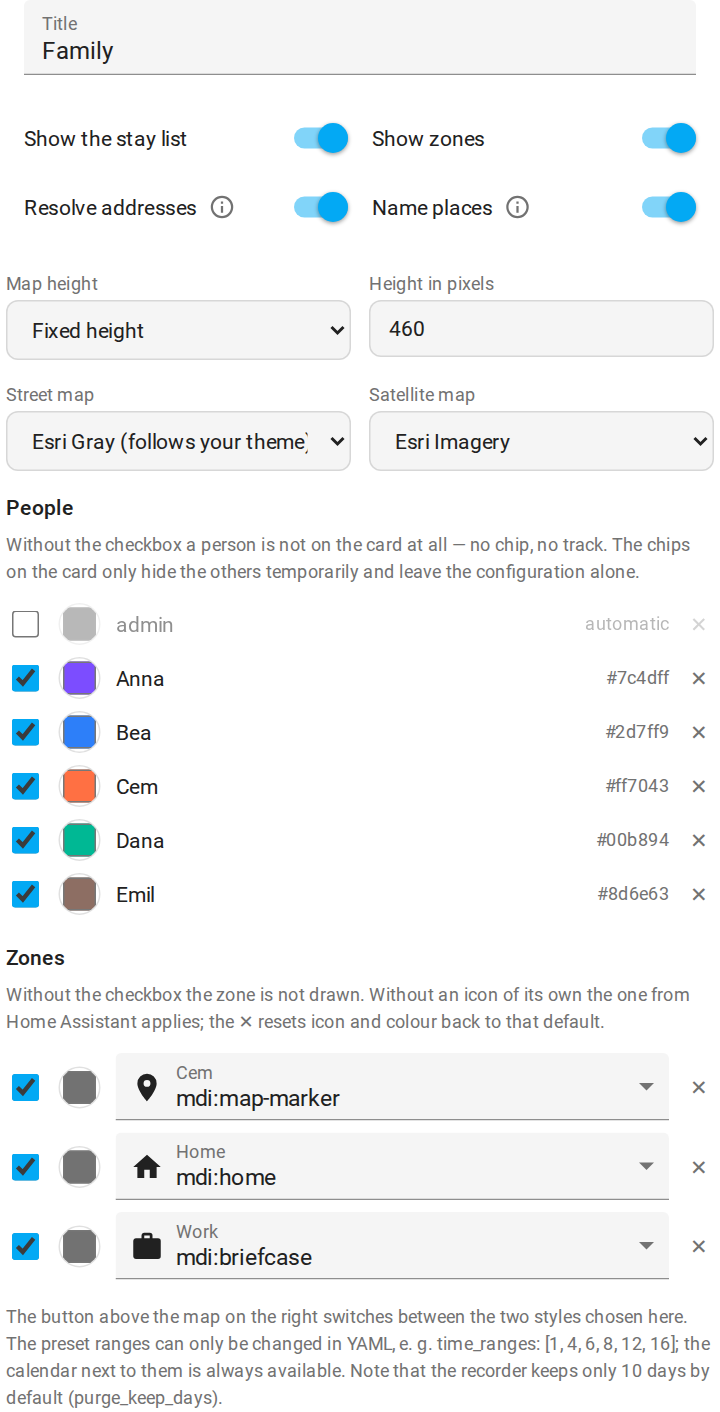
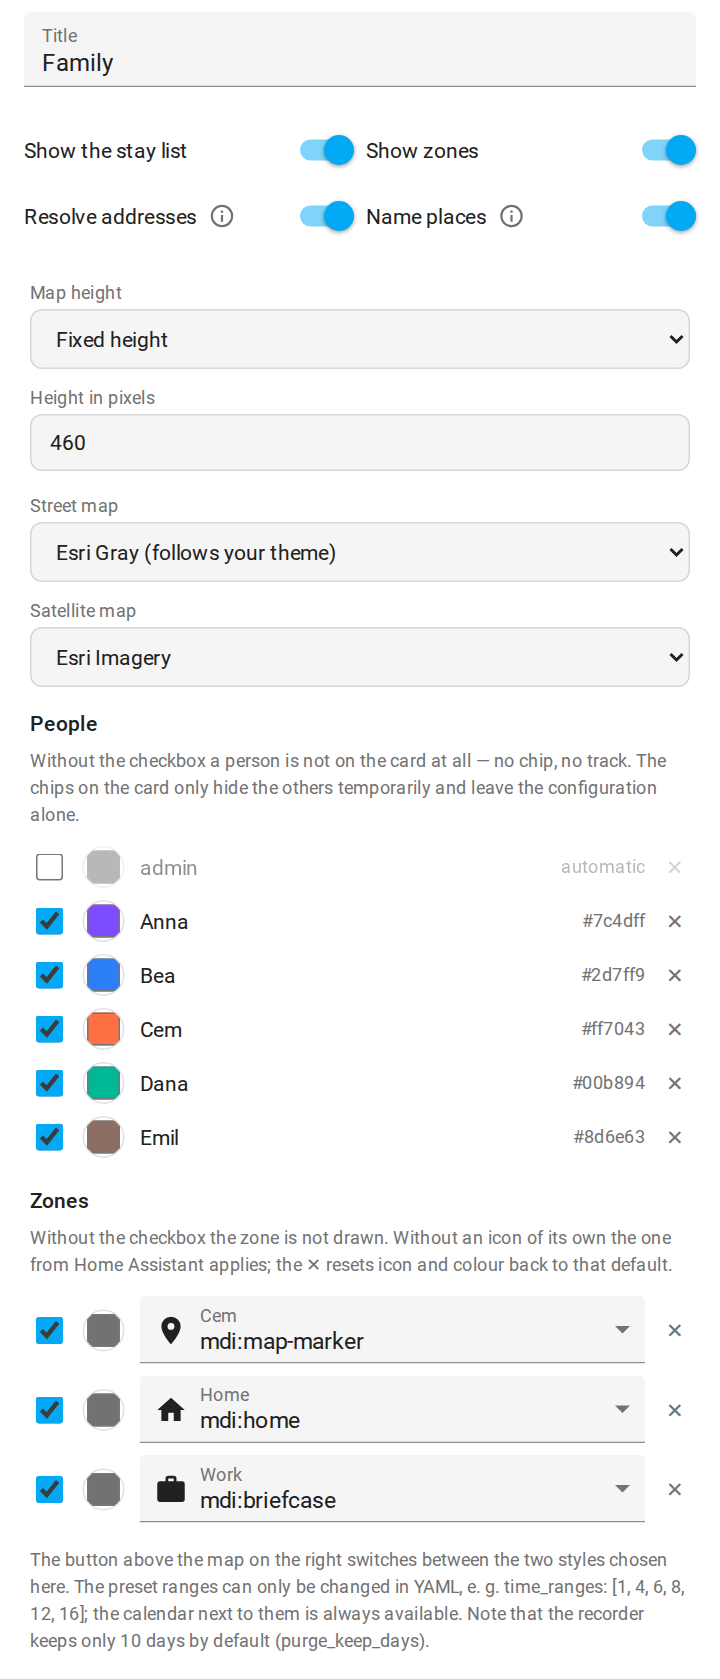
Draw every switch here, so the rows line up and sit evenly
On a phone each switch is its own line, and three faults showed up at
once that a wide screen had hidden.

The two switches that had moved out of `ha-form` carried a padding of
their own, 16 px further in than the two still in it. Side by side that
passed; stacked, "Resolve addresses" and "Name places" read as
sub-items of the switch above them rather than as siblings. The switches
were off to the right by the same 16 px.

The spacing was uneven for a reason no amount of matching could fix: the
gap between the form's own rows lives in its shadow root. From outside I
could set mine to anything and never touch theirs, so two rows sat 64 px
apart and two 24 px.

So all four are drawn here now and the form keeps the title alone. One
gap for every row, and 44 px of pitch rather than 64 -- four switches
under each other is a lot of scrolling otherwise, and they belong
together anyway.

Measured at 380 px rather than eyeballed: every label starts at 16,
every switch ends at 364, every gap is 4.

My test harness had copied the same wrong padding into its stand-in for
`ha-form`, which is why the desktop shots looked right all along. It is
fixed too, and the editor screenshot now includes the dialog's own
margin -- without it the right-hand switches sat flush against the edge
of the image and looked cut off.

diff --git a/src/editor.ts b/src/editor.ts
@@ -43,14 +43,9 @@ export class FamilyTrackingCardEditor extends LitElement implements LovelaceCard
     this._config = config;
   }
 
-  /** Defaults are shown in the form but only written once the user edits. */
+  /** Only the title is left in the form; the switches are drawn below it. */
   private get _data(): Record<string, unknown> {
-    return {
-      show_stays: DEFAULTS.show_stays,
-      show_zones: DEFAULTS.show_zones,
-      geocode: DEFAULTS.geocode,
-      ...this._config,
-    };
+    return { ...this._config };
   }
 
   protected override render(): TemplateResult | typeof nothing {
@@ -64,7 +59,7 @@ export class FamilyTrackingCardEditor extends LitElement implements LovelaceCard
         .computeLabel=${(entry: { name: string }) => this._t(`editor.${entry.name}`)}
         @value-changed=${this._valueChanged}
       ></ha-form>
-      ${this._renderLookups()}
+      ${this._renderSwitches()}
       ${this._renderStyles()} ${this._renderColors()} ${this._renderZones()}
       <p class="note">
         ${this._t("editor.note")}
@@ -73,40 +68,48 @@ export class FamilyTrackingCardEditor extends LitElement implements LovelaceCard
   }
 
   /**
-   * The two lookup switches, side by side, built by hand for one reason: each
-   * needs an info icon.
+   * Every switch the card has, drawn by hand rather than through `ha-form`.
    *
-   * `ha-form` takes a label as a string, so there is nowhere to hang one, and
-   * both switches need more explanation than a label holds. "Resolve addresses"
-   * does not say which service is asked or where the answer is kept; "Name
-   * places" says what it does but not what it will do to the stay list.
+   * Two reasons, and the second only showed up on a phone. A form label is a
+   * plain string, so there is nowhere to hang the info icon that "Resolve
+   * addresses" and "Name places" both need -- neither says enough on its own.
+   * And once two switches had moved out of the form's grid, they sat at a
+   * different spacing from the two still in it, which no amount of matching
+   * from outside could fix: the gap belongs to the form's own shadow root.
    *
-   * The note appears on hover and is drawn here rather than left to the
-   * browser's own tooltip: `title` renders as a small unstyled box after a
-   * delay, truncates where it pleases, and cannot be reached by keyboard. This
-   * one also answers to focus, so tabbing to the icon shows it.
+   * The notes appear on hover and are drawn here rather than left to `title`:
+   * the browser's tooltip is a small unstyled box that arrives late, truncates
+   * where it pleases and cannot be reached by keyboard. This one answers to
+   * focus as well.
    */
-  private _renderLookups(): TemplateResult {
-    const option = (key: "geocode" | "places", value: boolean) => html`
+  private _renderSwitches(): TemplateResult {
+    const config = this._config as FamilyTrackingCardConfig;
+
+    const option = (
+      key: "show_stays" | "show_zones" | "geocode" | "places",
+      value: boolean,
+      explained: boolean
+    ) => html`
       <div class="opt">
         <span class="opt-label">${this._t(`editor.${key}`)}</span>
-        <button class="opt-info" aria-label=${this._t(`editor.${key}_info`)}>
-          <svg viewBox="0 0 24 24" aria-hidden="true">
-            <path
-              d="M11 9h2V7h-2m1 13c-4.41 0-8-3.59-8-8s3.59-8 8-8 8 3.59 8 8-3.59
-                 8-8 8m0-18A10 10 0 0 0 2 12a10 10 0 0 0 10 10 10 10 0 0 0 10-10A10
-                 10 0 0 0 12 2m-1 15h2v-6h-2v6Z"
-            />
-          </svg>
-        </button>
-        <span class="opt-note" role="tooltip">${this._t(`editor.${key}_explain`)}</span>
+        ${explained
+          ? html`
+              <button class="opt-info" aria-label=${this._t(`editor.${key}_info`)}>
+                <svg viewBox="0 0 24 24" aria-hidden="true">
+                  <path
+                    d="M11 9h2V7h-2m1 13c-4.41 0-8-3.59-8-8s3.59-8 8-8 8 3.59 8 8-3.59
+                       8-8 8m0-18A10 10 0 0 0 2 12a10 10 0 0 0 10 10 10 10 0 0 0 10-10A10
+                       10 0 0 0 12 2m-1 15h2v-6h-2v6Z"
+                  />
+                </svg>
+              </button>
+              <span class="opt-note" role="tooltip">${this._t(`editor.${key}_explain`)}</span>
+            `
+          : nothing}
         <ha-switch
           .checked=${value}
           @change=${(ev: Event) =>
-            this._emit({
-              ...(this._config as FamilyTrackingCardConfig),
-              [key]: (ev.target as HTMLInputElement).checked,
-            })}
+            this._emit({ ...config, [key]: (ev.target as HTMLInputElement).checked })}
         ></ha-switch>
       </div>
     `;
@@ -114,8 +117,10 @@ export class FamilyTrackingCardEditor extends LitElement implements LovelaceCard
     return html`
       <div class="lookups">
         <div class="opt-grid">
-          ${option("geocode", this._config?.geocode ?? DEFAULTS.geocode)}
-          ${option("places", this._config?.places ?? DEFAULTS.places)}
+          ${option("show_stays", this._config?.show_stays ?? DEFAULTS.show_stays, false)}
+          ${option("show_zones", this._config?.show_zones ?? DEFAULTS.show_zones, false)}
+          ${option("geocode", this._config?.geocode ?? DEFAULTS.geocode, true)}
+          ${option("places", this._config?.places ?? DEFAULTS.places, true)}
         </div>
       </div>
     `;
@@ -766,17 +771,31 @@ export class FamilyTrackingCardEditor extends LitElement implements LovelaceCard
 
     /* Mirrors the grid ha-form draws above, so these two do not read as a
        different kind of setting than the two switches over them. */
-    /* Positioned, so the notes inside the cells hang from the row rather than
-       from their own column -- a 210 px column is too narrow to read in. */
+    /*
+     * Flush with the form above, not inset from it.
+     *
+     * A padding here looked harmless on a wide screen and was not: on a phone
+     * every row is its own line, and two of them starting 16 px further in
+     * read as sub-items of the switch above rather than as siblings of it.
+     *
+     * Positioned, so the notes inside the cells hang from the row rather than
+     * from their own column -- a 210 px column is too narrow to read in.
+     */
     .lookups {
       position: relative;
-      padding: 0 16px 8px;
+      padding: 0 0 8px;
     }
 
+    /*
+     * One gap for every row, which is only possible now that all four switches
+     * are drawn here. Tighter than ha-form's own spacing on purpose: four
+     * switches under each other on a phone is a lot of scrolling at 64 px a
+     * row, and they belong together anyway.
+     */
     .opt-grid {
       display: grid;
       grid-template-columns: repeat(auto-fit, minmax(210px, 1fr));
-      gap: 8px 16px;
+      gap: 4px 8px;
     }
 
     .opt {
@@ -824,8 +843,8 @@ export class FamilyTrackingCardEditor extends LitElement implements LovelaceCard
        note appears. It lies over what follows, the way a tooltip should. */
     .opt-note {
       position: absolute;
-      left: 16px;
-      right: 16px;
+      left: 0;
+      right: 0;
       top: calc(100% - 4px);
       z-index: 2;
       display: none;

diff --git a/tests/card/tile-styles.test.ts b/tests/card/tile-styles.test.ts
@@ -305,24 +305,27 @@ describe("Zonen-Darstellung", () => {
  * `ha-form` reads a named group from `data[name]` and writes it back there. A
  * grid called "toggles" therefore stored the switches as
  * `toggles: { show_zones: true }`, which the card never reads -- the switch
- * showed its own nested value and looked on while nothing happened. Only an
- * empty name keeps the keys flat, so this is worth pinning down.
+ * showed its own nested value and looked on while nothing happened.
+ *
+ * The switches have since left the form altogether: they needed info icons a
+ * label cannot carry, and half in and half out gave them two different row
+ * spacings. Only the title is left, and it must stay flat for the same reason
+ * the grid had to.
  */
 describe("Editor-Schema", () => {
-  it("verschachtelt kein Raster", () => {
-    for (const entry of EDITOR_SCHEMA) {
-      if ((entry as { type?: string }).type === "grid") strictEqual(entry.name, "");
-    }
+  it("enthält nur noch den Titel", () => {
+    deepStrictEqual(
+      EDITOR_SCHEMA.map((entry) => entry.name),
+      ["title"]
+    );
   });
 
-  it("enthält die Schalter, die die Karte auch liest", () => {
-    const grid = EDITOR_SCHEMA.find((e) => (e as { type?: string }).type === "grid");
-    const names = ((grid as { schema: readonly { name: string }[] }).schema ?? []).map(
-      (e) => e.name
-    );
-    // `geocode` and `places` are deliberately not here: both are rendered by
-    // hand so each can carry an info icon, which `ha-form` has no room for.
-    deepStrictEqual([...names], ["show_stays", "show_zones"]);
+  it("verschachtelt nichts", () => {
+    // A group would nest its values under its own name, and the card reads the
+    // keys flat. Nothing here has a type at all, so nothing can.
+    for (const entry of EDITOR_SCHEMA) {
+      strictEqual((entry as { type?: string }).type, undefined);
+    }
   });
 
   it("nennt die Altlasten, die beim Speichern entfernt werden", () => {

diff --git a/src/const.ts b/src/const.ts
@@ -1,4 +1,4 @@
-export const CARD_VERSION = "0.7.0";
+export const CARD_VERSION = "0.7.1";
 
 export const CARD_TAG = "family-tracking-card";
 export const EDITOR_TAG = "family-tracking-card-editor";
@@ -507,17 +507,15 @@ export function editedLayer(previous: StyleConfig, next: StyleConfig): MapLayerI
  * objects in existing configurations are the fossils of exactly that. A grid
  * with an empty name hands the whole object down and keeps the keys flat.
  */
-export const EDITOR_SCHEMA = [
-  { name: "title", selector: { text: {} } },
-  {
-    name: "",
-    type: "grid",
-    schema: [
-      { name: "show_stays", selector: { boolean: {} } },
-      { name: "show_zones", selector: { boolean: {} } },
-    ],
-  },
-] as const;
+/**
+ * What is left for `ha-form`: the title, and nothing else.
+ *
+ * The switches used to live here too, in a grid. Two of them then needed an
+ * info icon, which a form label -- a plain string -- cannot carry, and the two
+ * that moved out ended up with a different spacing from the two that stayed.
+ * Drawing all four by hand is what makes the rhythm even.
+ */
+export const EDITOR_SCHEMA = [{ name: "title", selector: { text: {} } }] as const;
 
 /**
  * Keys no configuration should still carry.

diff --git a/README.md b/README.md
@@ -9,11 +9,11 @@ a map card, shipped with it, that shows the day as a readable list of stays
 instead of raw coordinates.
 
 <p>
-  <img src="https://raw.githubusercontent.com/Snaker-L/ha-family-tracking/main/docs/screenshot-card.png?v=0.7.0" alt="The card: person chips, the range menu, a map with a track, and the stay list below" width="355">
-  <img src="https://raw.githubusercontent.com/Snaker-L/ha-family-tracking/main/docs/screenshot-satellite.jpg?v=0.7.0" alt="The same card on satellite tiles, with the view unchanged" width="355">
+  <img src="https://raw.githubusercontent.com/Snaker-L/ha-family-tracking/main/docs/screenshot-card.png?v=0.7.1" alt="The card: person chips, the range menu, a map with a track, and the stay list below" width="355">
+  <img src="https://raw.githubusercontent.com/Snaker-L/ha-family-tracking/main/docs/screenshot-satellite.jpg?v=0.7.1" alt="The same card on satellite tiles, with the view unchanged" width="355">
 </p>
 <p>
-  <img src="https://raw.githubusercontent.com/Snaker-L/ha-family-tracking/main/docs/screenshot-editor.png?v=0.7.0" alt="The card editor: the two lookup switches, map height, tile styles, a colour per person and an icon per zone" width="355">
+  <img src="https://raw.githubusercontent.com/Snaker-L/ha-family-tracking/main/docs/screenshot-editor.png?v=0.7.1" alt="The card editor: the two lookup switches, map height, tile styles, a colour per person and an icon per zone" width="355">
 </p>
 
 **One install, nothing to register.** The integration serves the card and keeps
